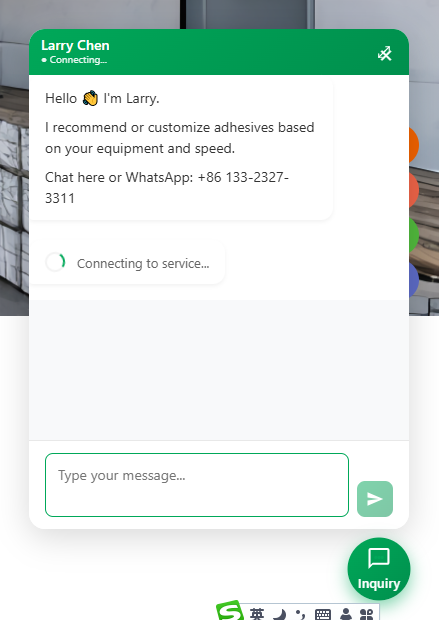
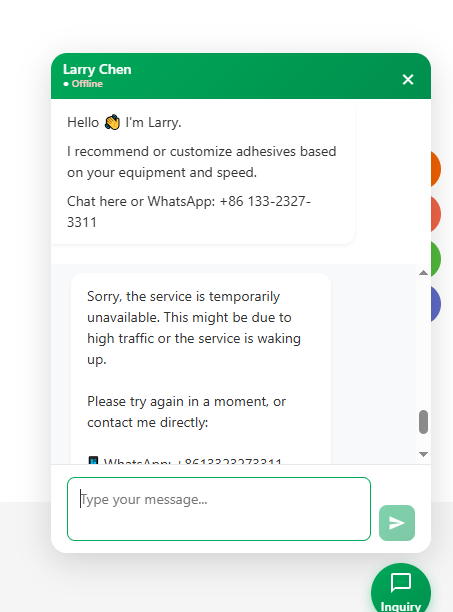
fix: update API URL to Fly.io and add retry mechanism for better reliability
- Change API_URL from Render to Fly.io (paperbagglue-chat-v1.fly.dev)
- Add retry mechanism for health check (2 attempts)
- Add retry mechanism for message sending (2 attempts)
- Increase API timeout from 10s to 15s
- Reduce keep-alive interval from 5min to 2min
- Disable cache for health check requests
- Update version to 2.2

diff --git a/src/api/static/chat-widget.js b/src/api/static/chat-widget.js
@@ -7,12 +7,12 @@
 
   // ==================== 配置 ====================
   const CONFIG = {
-    API_URL: 'https://paperbagglue-chat.onrender.com/api/chat',
+    API_URL: 'https://paperbagglue-chat-v1.fly.dev/api/chat',
     WIDGET_ID: 'chat-widget-container',
     AUTO_OPEN_DELAY: 3000, // 3秒后自动打开
-    API_TIMEOUT: 10000, // 10秒超时
-    KEEP_ALIVE_INTERVAL: 5 * 60 * 1000, // 5分钟保持活跃
-    VERSION: '2.1', // 版本号，用于强制刷新缓存
+    API_TIMEOUT: 15000, // 15秒超时（增加超时时间）
+    KEEP_ALIVE_INTERVAL: 2 * 60 * 1000, // 2分钟保持活跃（更频繁的保活）
+    VERSION: '2.2', // 版本号，用于强制刷新缓存
   };
 
   // 生成会话ID
@@ -504,31 +504,41 @@
 
   // ==================== 功能函数 ====================
 
-  // 健康检查
-  async function healthCheck() {
-    try {
-      const controller = new AbortController();
-      const timeoutId = setTimeout(() => controller.abort(), CONFIG.API_TIMEOUT);
+  // 健康检查 - 增加重试机制
+  async function healthCheck(retryCount = 2) {
+    for (let i = 0; i < retryCount; i++) {
+      try {
+        const controller = new AbortController();
+        const timeoutId = setTimeout(() => controller.abort(), CONFIG.API_TIMEOUT);
 
-      // 使用 /health 端点（GET 请求）
-      const healthUrl = CONFIG.API_URL.replace('/api/chat', '/health');
-      const response = await fetch(healthUrl, {
-        method: 'GET',
-        signal: controller.signal
-      });
+        // 使用 /health 端点（GET 请求）
+        const healthUrl = CONFIG.API_URL.replace('/api/chat', '/health');
+        const response = await fetch(healthUrl, {
+          method: 'GET',
+          signal: controller.signal,
+          cache: 'no-cache' // 禁用缓存
+        });
 
-      clearTimeout(timeoutId);
+        clearTimeout(timeoutId);
 
-      isServiceAvailable = response.ok;
-      updateConnectionStatus(isServiceAvailable ? 'Online' : 'Offline');
-
-      return isServiceAvailable;
-    } catch (error) {
-      console.log('Health check failed:', error);
-      isServiceAvailable = false;
-      updateConnectionStatus('Connecting...');
-      return false;
+        if (response.ok) {
+          isServiceAvailable = true;
+          updateConnectionStatus("We're Online");
+          return true;
+        }
+      } catch (error) {
+        console.log(`Health check attempt ${i + 1} failed:`, error);
+        // 如果不是最后一次尝试，等待 1 秒后重试
+        if (i < retryCount - 1) {
+          await new Promise(resolve => setTimeout(resolve, 1000));
+        }
+      }
     }
+
+    // 所有尝试都失败
+    isServiceAvailable = false;
+    updateConnectionStatus('Connecting...');
+    return false;
   }
 
   // 更新连接状态
@@ -606,17 +616,20 @@
     input.value = '';
   }
 
-  async function sendText(message) {
+  async function sendText(message, retryCount = 0, maxRetries = 2) {
     const input = document.getElementById('chat-input');
     
     input.disabled = true;
     document.getElementById('send-btn').disabled = true;
 
-    if (!message.startsWith('[Image uploaded]')) {
+    if (!message.startsWith('[Image uploaded]') && retryCount === 0) {
       addMessage(message, 'user');
     }
 
-    showTypingIndicator();
+    // 只有第一次调用时显示加载指示器
+    if (retryCount === 0) {
+      showTypingIndicator();
+    }
 
     try {
       const controller = new AbortController();
@@ -647,14 +660,23 @@
       if (data.response) {
         addMessage(data.response, 'bot');
         isServiceAvailable = true;
-        updateConnectionStatus('Online');
+        updateConnectionStatus("We're Online");
       } else {
         throw new Error('No response from server');
       }
 
     } catch (error) {
-      console.error('Error:', error);
+      console.error('Error:', error, 'Retry:', retryCount + 1, '/', maxRetries);
 
+      // 如果还有重试机会，自动重试
+      if (retryCount < maxRetries) {
+        removeTypingIndicator();
+        // 等待 2 秒后重试
+        await new Promise(resolve => setTimeout(resolve, 2000));
+        return sendText(message, retryCount + 1, maxRetries);
+      }
+
+      // 所有重试都失败
       removeTypingIndicator();
 
       // 超时或错误，显示备用联系方式
